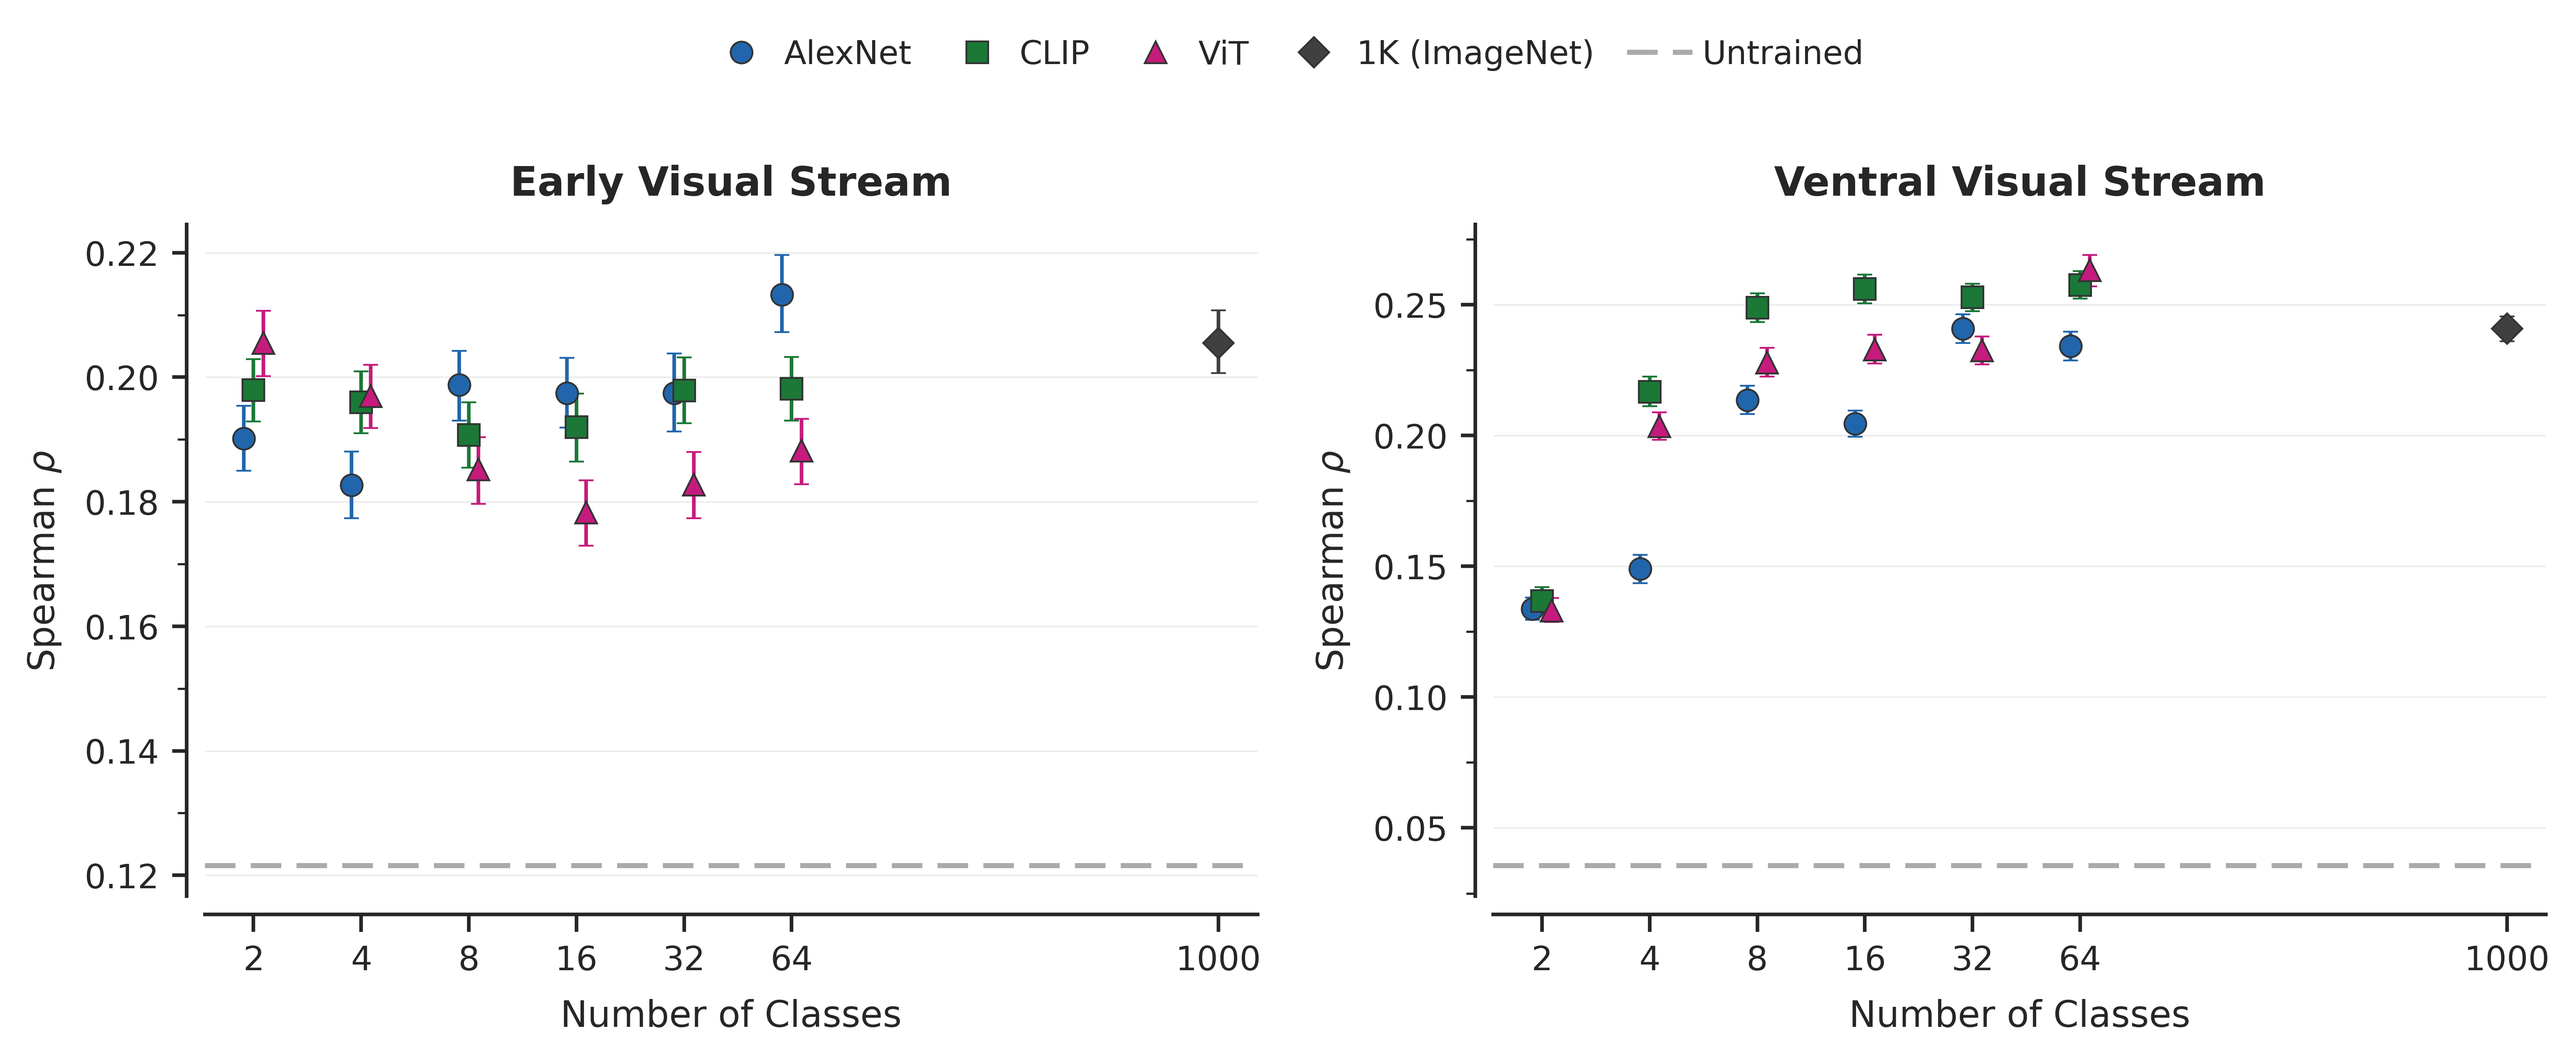
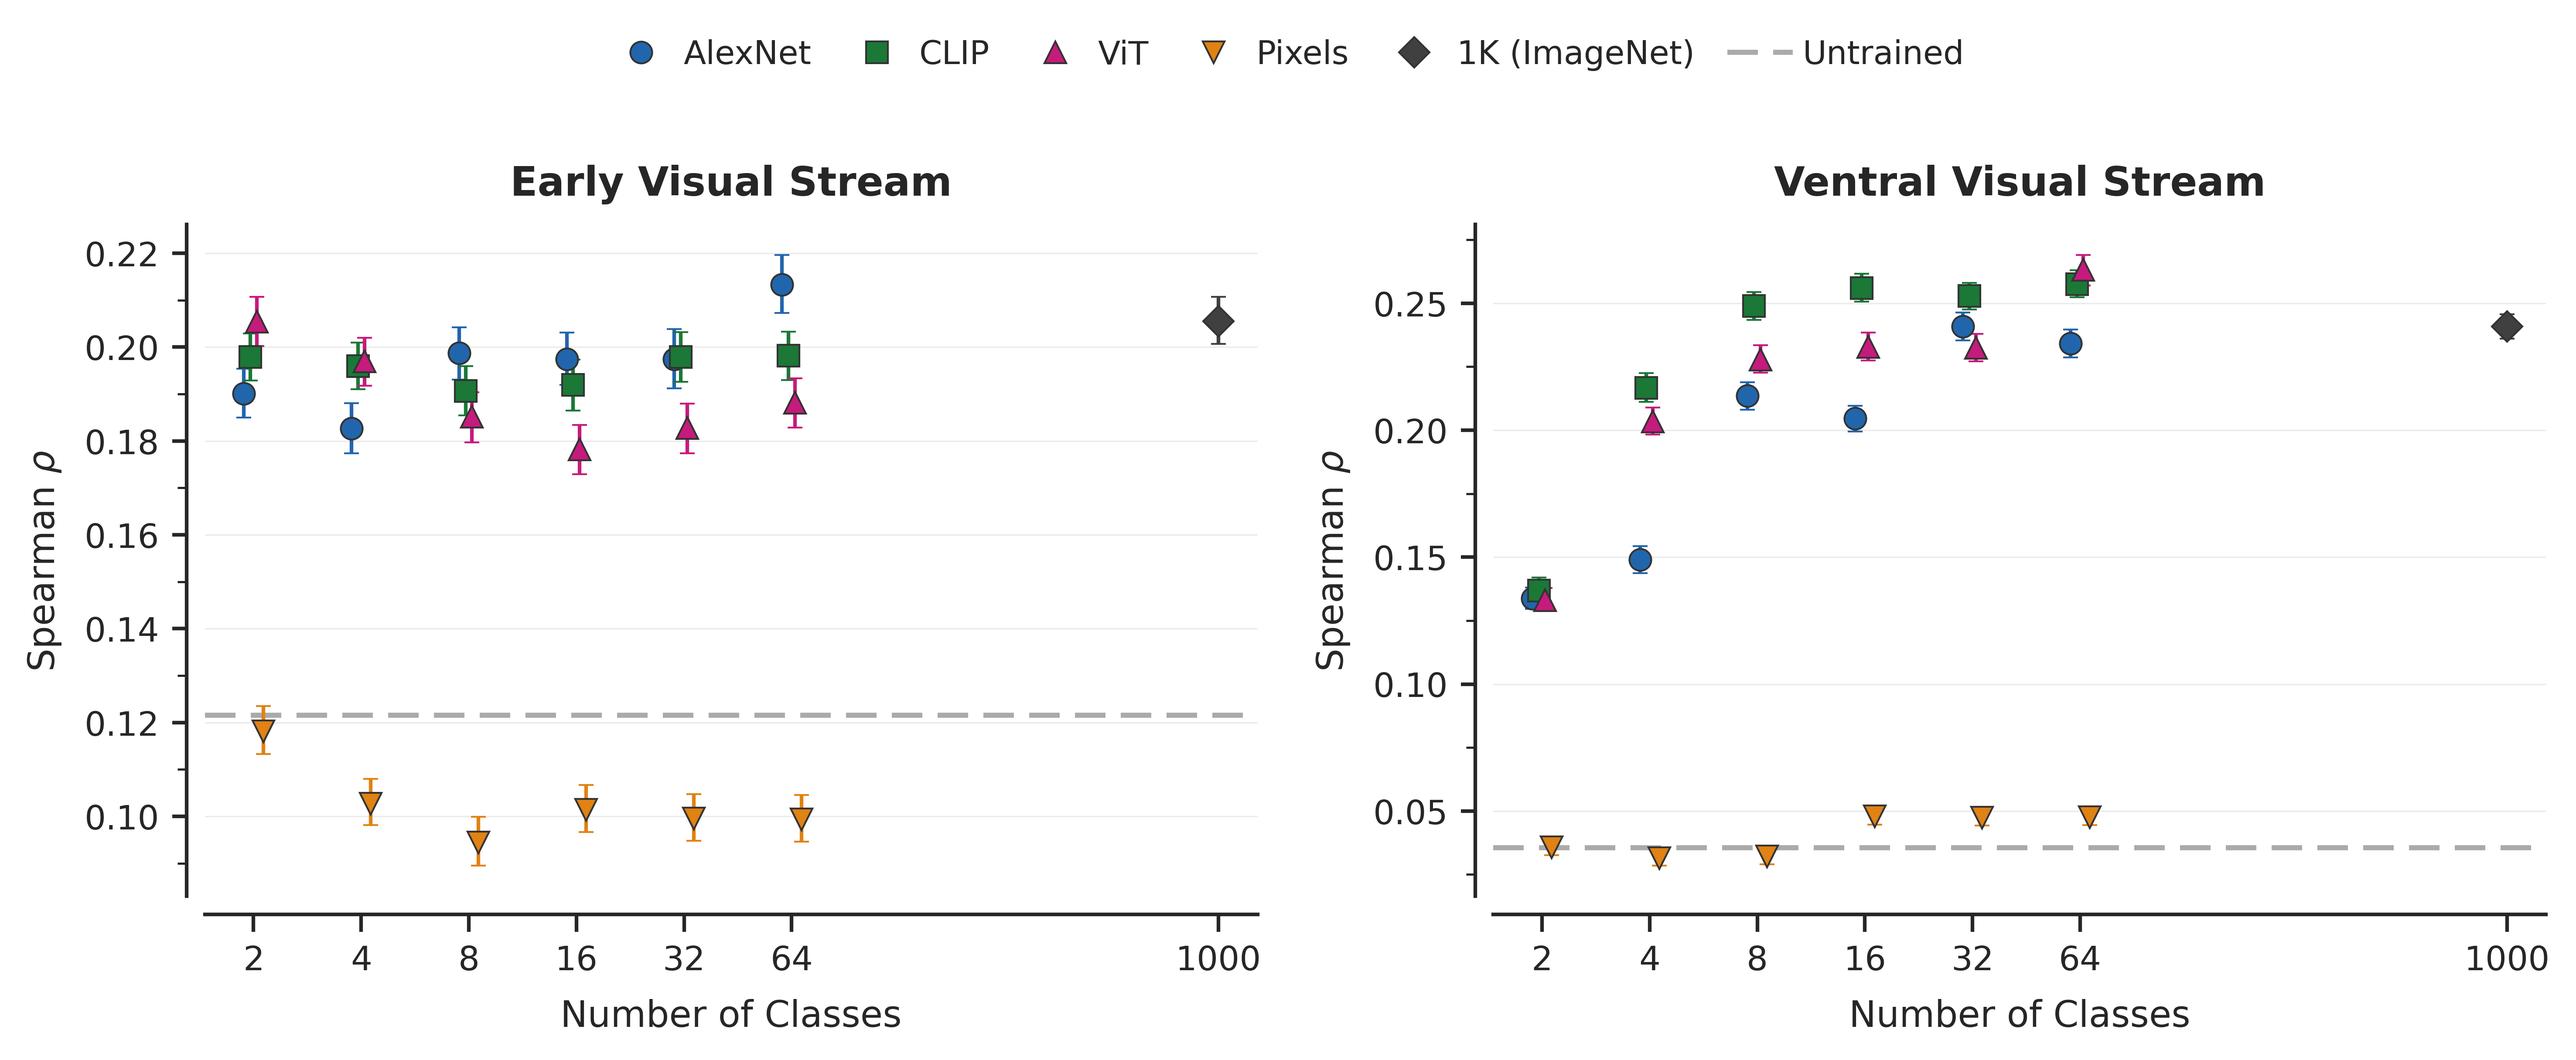
Add pixels as PCA source model in plotting scripts
Register "pixels" in PCA_MODELS and add its architecture style
(purple, down-triangle marker) to the coarseness log plot.
Updated coarseness figures with pixels data.

diff --git a/manuscript/figures/plot_coarseness_log.py b/manuscript/figures/plot_coarseness_log.py
@@ -27,6 +27,7 @@ ARCHITECTURES = [
     ("alexnet", "pca_labels_alexnet", "AlexNet"),
     ("clip",    "pca_labels_clip",    "CLIP"),
     ("vit",     "pca_labels_vit",     "ViT"),
+    ("pixels",  "pca_labels_pixels",  "Pixels"),
 ]
 N_ARCH = len(ARCHITECTURES)
 
@@ -42,6 +43,7 @@ ARCH_STYLE = {
     "clip":    {"color": "#1B7837", "marker": "s"},    # Forest green
     "dino":    {"color": "#E08214", "marker": "D"},    # Warm orange
     "vit":     {"color": "#C51B7D", "marker": "^"},    # Magenta-pink
+    "pixels":  {"color": "#762A83", "marker": "v"},    # Purple
 }
 BASELINE_1K_COLOR = "#404040"
 UNTRAINED_STYLE = {"color": "#AAAAAA", "linestyle": (0, (6, 3)), "linewidth": 1.4}

diff --git a/plotters/plot_helpers.py b/plotters/plot_helpers.py
@@ -22,6 +22,7 @@ PCA_MODELS = {
     "vit": "ViT",
     "clip": "CLIP",
     "dino": "DINO",
+    "pixels": "Pixels",
 }
 # Back-compat alias
 FOLDER_DISPLAY = {f"pca_labels_{k}": v for k, v in PCA_MODELS.items()}
